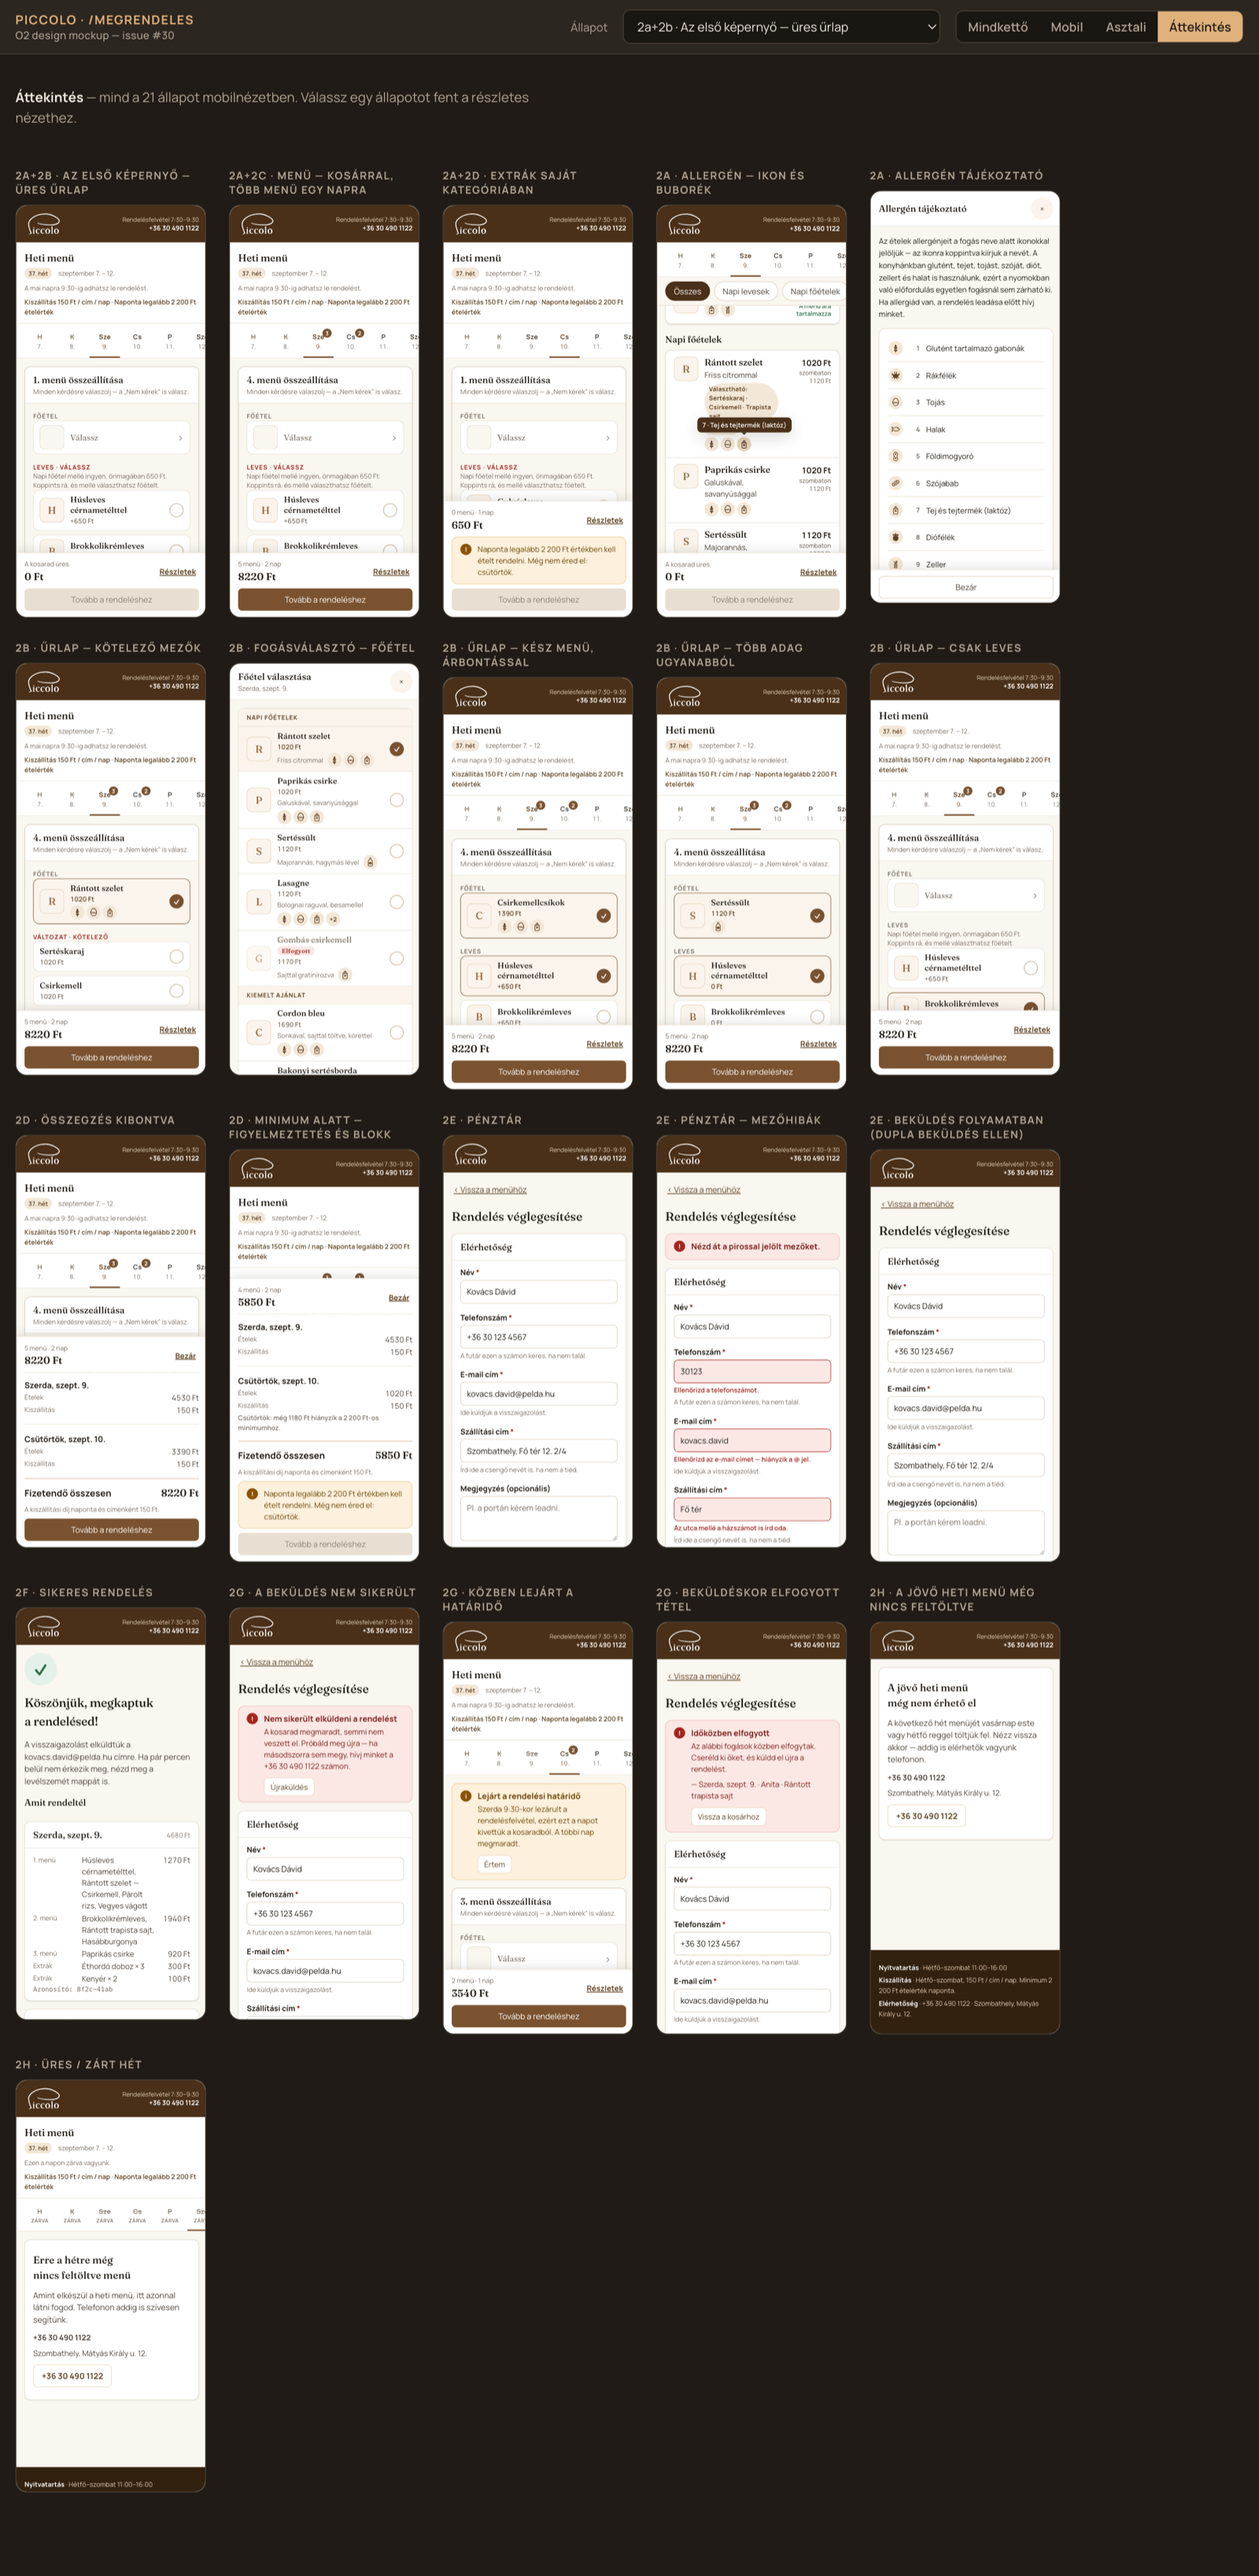
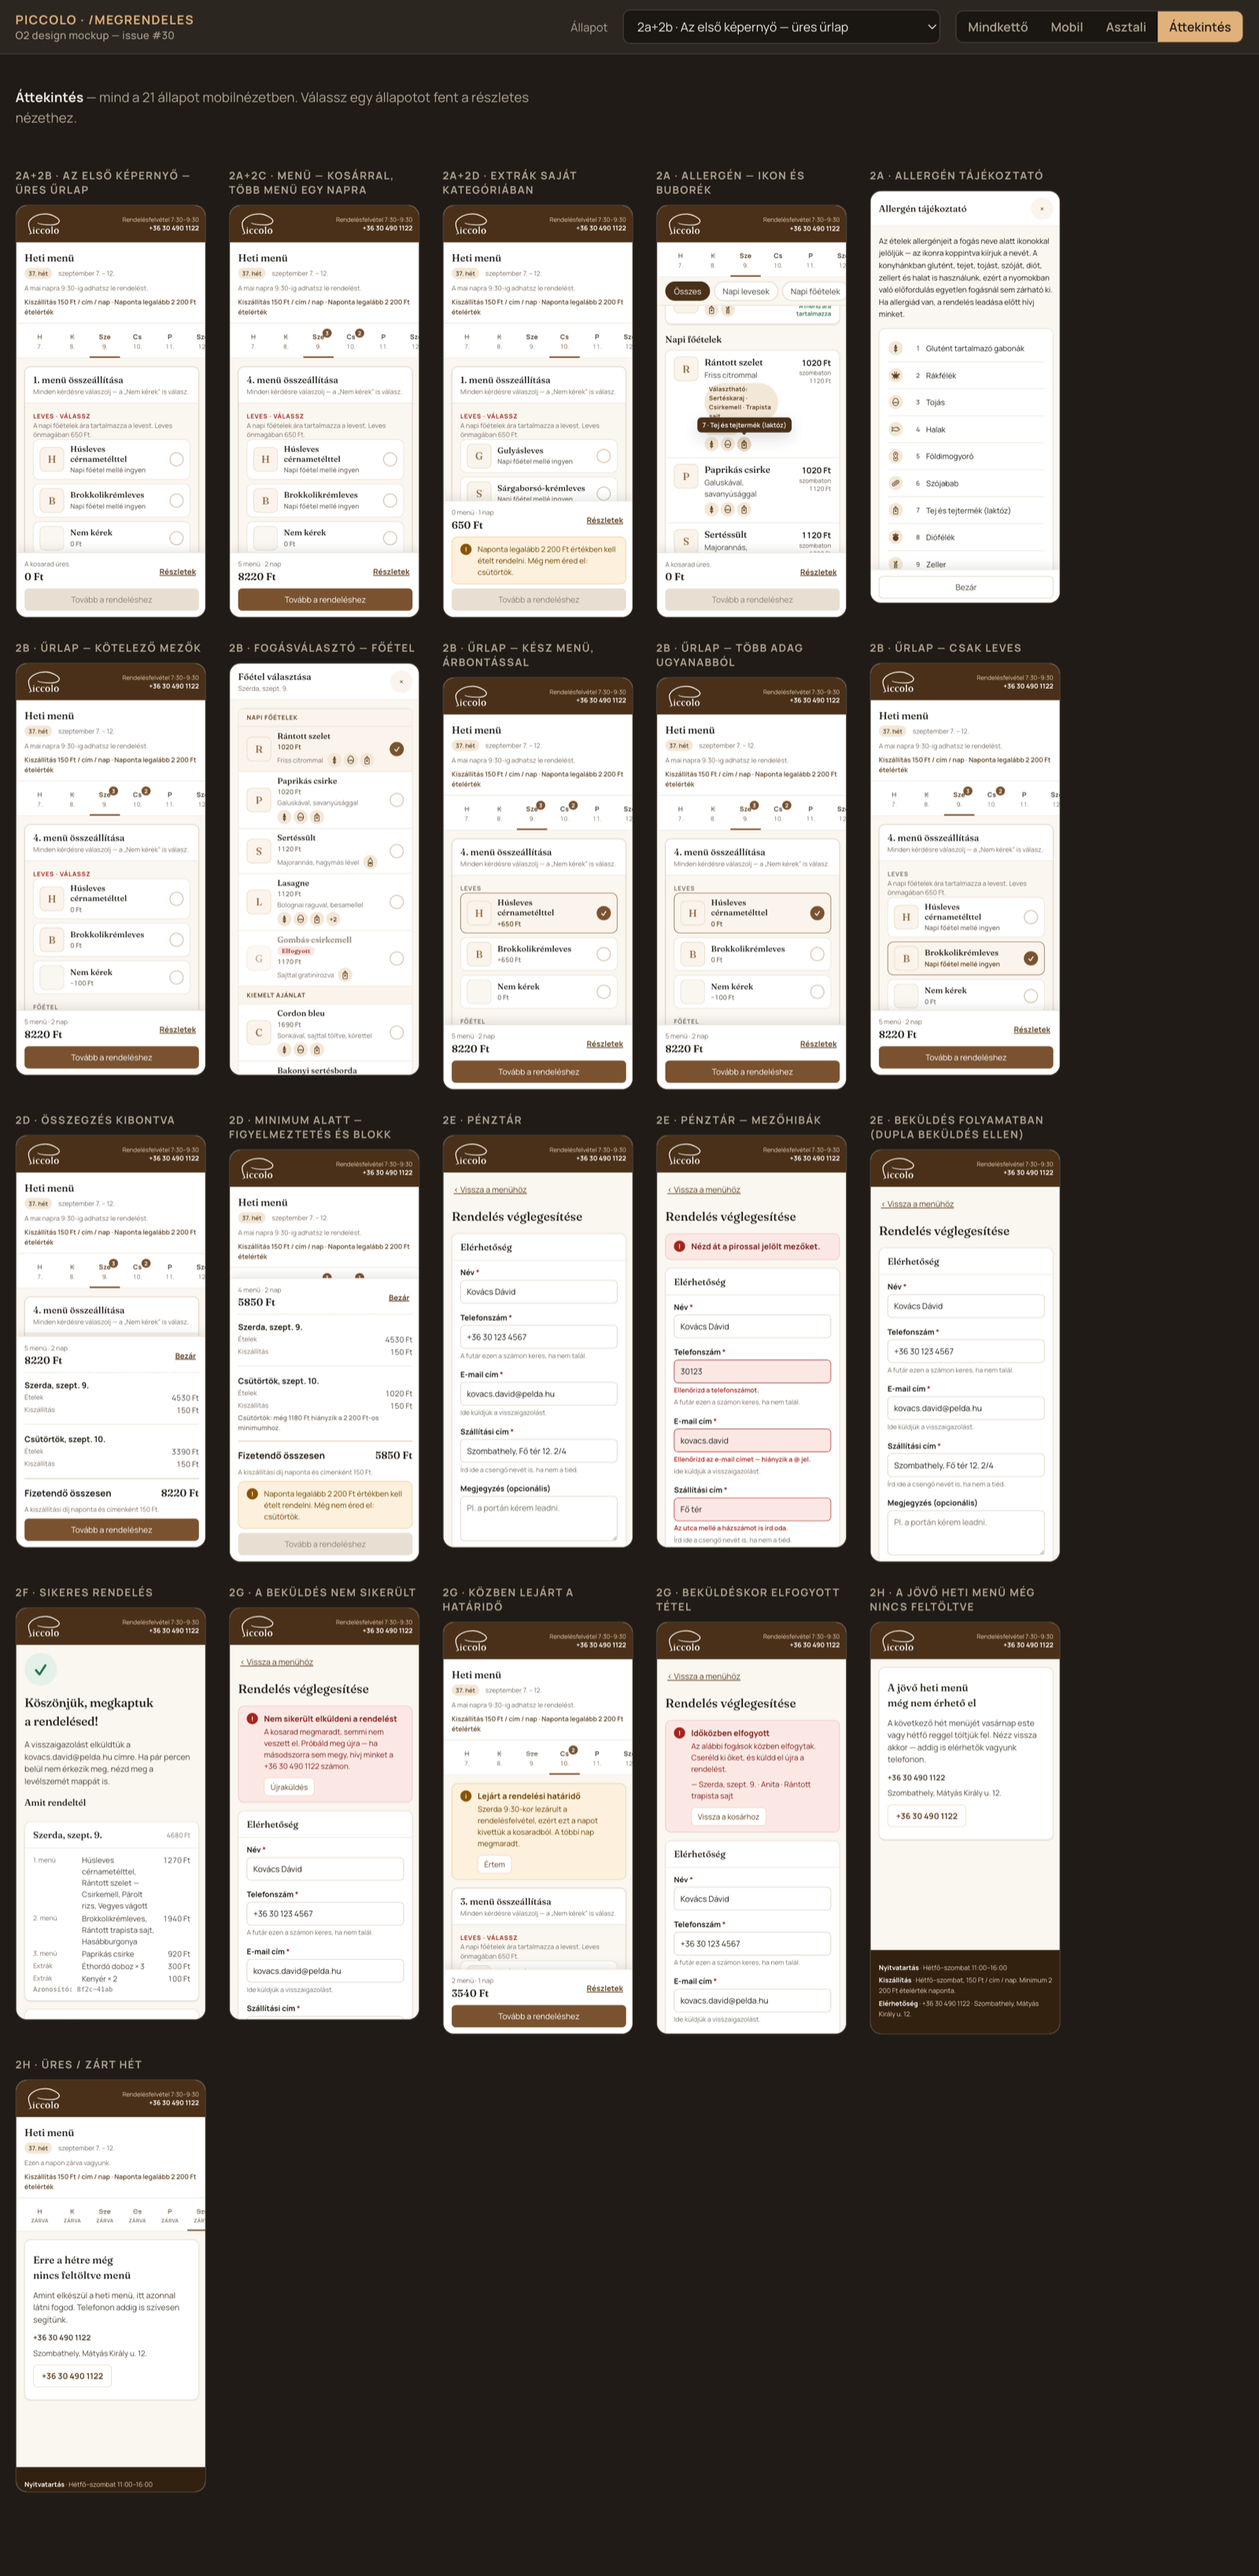
O2: the soup comes first and quotes a rule until a main is chosen
Course order it is — soup, main, its variation and side, then pickle and
dessert. That is how a Hungarian menu reads and how the old form was laid out.

It has one hazard, and the soup block is built around it: the soup's price
depends on the main. Beside a daily main it is included; beside an all-week dish
or on its own it is 650 Ft. Rendered naively, moving the soup up prints "+650 Ft"
on every soup at the exact moment the guest has no main and so no way to improve
it — the worst case presented as the price, which is a good way to talk someone
out of a soup that would have been free.

So while no main is chosen the amount states the rule instead, "Napi főétel
mellé ingyen", and the block hint carries the other half. Pick a main and the
rows go back to real figures: 0 Ft, −100 Ft on "Nem kérek", +650 Ft beside an
all-week dish.

diff --git a/docs/design/megrendeles/mockup.html b/docs/design/megrendeles/mockup.html
@@ -2078,6 +2078,8 @@
           choose: 'Válassz',
           variationLabel: 'Változat',
           requiredSuffix: 'kötelező',
+          soupFreeWithMain: 'Napi főétel mellé ingyen',
+          soupHint: 'A napi főételek ára tartalmazza a levest. Leves önmagában 650 Ft.',
           answerSuffix: 'válassz',
           unanswered: 'Válaszolj a jelölt kérdésekre — a „Nem kérek” is válasz.',
           formTitle: (n) => n + '. menü összeállítása',
@@ -3332,8 +3334,15 @@
           );
         };
 
-        /** What the receipt would say if this soup (or none) were chosen. */
+        /**
+         * What the receipt would say if this soup (or none) were chosen. Before a
+         * main is picked the honest answer is a condition, not a number: the same
+         * soup is free beside a daily main and 650 Ft on its own. Printing the worst
+         * case at the one moment the guest cannot yet improve it is what made the
+         * old system read as expensive, so the row states the rule instead.
+         */
         const soupAmount = (id) => {
+          if (id && !mainItem) return S.composer.soupFreeWithMain;
           const adj = priceMenu({ ...c, soup: id }, date).lines.find((l) => l.adj);
           return adj ? signed(adj.amount) : money(0);
         };
@@ -3341,7 +3350,7 @@
         const soupBlock = choiceRows(S.composer.slots.soup, {
           slot: 'soup',
           answerable: true,
-          hint: mainItem ? null : S.sections.soupsHint,
+          hint: mainItem ? null : S.composer.soupHint,
           options: [
             ...WEEK.byDate[date].soups.map((s) => ({
               id: s.id,
@@ -3438,15 +3447,15 @@
          * only one place where a menu is built.
          */
         const body =
+          soupBlock +
           mainBlock() +
           variationBlock +
-          soupBlock +
           sideBlock +
-          choiceRows(S.composer.slots.dessert, {
-            slot: 'dessert',
+          choiceRows(S.composer.slots.pickle, {
+            slot: 'pickle',
             answerable: true,
             options: [
-              ...WEEK.desserts.map((i) => ({
+              ...WEEK.pickles.map((i) => ({
                 id: i.id,
                 name: i.name,
                 amount: money(priceOf(i, date)),
@@ -3454,11 +3463,11 @@
               { id: null, name: S.composer.none, amount: money(0) },
             ],
           }) +
-          choiceRows(S.composer.slots.pickle, {
-            slot: 'pickle',
+          choiceRows(S.composer.slots.dessert, {
+            slot: 'dessert',
             answerable: true,
             options: [
-              ...WEEK.pickles.map((i) => ({
+              ...WEEK.desserts.map((i) => ({
                 id: i.id,
                 name: i.name,
                 amount: money(priceOf(i, date)),

diff --git a/docs/design/megrendeles/README.md b/docs/design/megrendeles/README.md
@@ -121,7 +121,7 @@ What O6/O7 need to build, in the order they appear:
 | `DayCart` | composed menus, numbered, with per-line breakdown, adjustments, edit/remove, food subtotal; then the day's extras as priced lines with a link back to the extras section |
 | `ExtrasSection` | the extras as a category of their own at the end of the offer list, with its own chip: a vertical list of `ExtrasRow`, heading and the per-day hint |
 | `ExtrasRow` | name, unit price, stepper, line total — one row, two chromes: with the stepper in the offer list, as a priced line (`name × qty`) in the day's order |
-| `ComposerForm` | **the primary screen, not a modal.** An empty form for the next menu: the main's row, then variation, soup, side, dessert, pickle and the Extra steppers, all open. Once the main is chosen its row shows the dish — tile, allergens, price. The head names which menu you are building; the foot carries the live price, the portions stepper, "Ürítés" and "Hozzáadás" |
+| `ComposerForm` | **the primary screen, not a modal.** An empty form for the next menu, in course order: soup, main, its variation and side, then pickle, dessert and the Extra steppers, all open. Once the main is chosen its row shows the dish — tile, allergens, price. The head names which menu you are building; the foot carries the live price, the portions stepper, "Ürítés" and "Hozzáadás" |
 | `CheckoutSummary` | the cart value, the per-day recap and the totals as one column beside the form |
 | `ChoiceRows` | soup, variation and side: a stack of full-width rows — tile, name, the price effect under the name, and a mark on the right that fills with the accent and a ✓ when chosen |
 | `SlotPicker` | the one remaining sheet: the main course, 11 dishes across three labelled groups, "Nem kérek" last, sold-out disabled |
@@ -199,13 +199,28 @@ What we deliberately did **not** take:
 
 | Slot | Options | Treatment |
 |---|---|---|
-| Leves | 2 + "Nem kérek" | **choice rows** — and the row carries the adjustment, so "Nem kérek −100 Ft" and "Húsleves +650 Ft" are visible *before* the tap. This is the price the old system hid until afterwards, and undercharged by 200 Ft when it finally showed it. |
+| Leves | 2 + "Nem kérek" | **choice rows, first in the form** — and the row carries the adjustment, so "Nem kérek −100 Ft" and "Húsleves +650 Ft" are visible *before* the tap. This is the price the old system hid until afterwards, and undercharged by 200 Ft when it finally showed it. |
 | Főétel | 11, across three categories | **its own row + picker** — too many to inline. The row has two faces: a prompt before it is answered, and afterwards the dish itself, drawn exactly like any other chosen course — same border, tint and filled check. Only the prompt carries a chevron, since that is where it helps: this is the one row that opens a picker. |
 | Változat | 2–3 | **choice rows**, without tiles — a variation is a property of the main course above it, not a dish of its own, and `Csirkemell` / `Csirkecomb` would both draw a `C`. |
 | Köret | 7 | **choice rows** — it is the only required slot and the usual reason the add button is disabled, so it should be satisfiable without leaving the sheet. |
 | Savanyúság, Desszert | 3 + "Nem kérek" each | **choice rows**, open on the page like the rest. Neither carries a default, so each has to be answered — see the forced-choice note below. |
 
 A required block is labelled `KÖRET · KÖTELEZŐ` in red: the requirement is a word, not only a colour.
+
+### The soup comes first, and before a main it quotes a rule, not a price
+
+The form follows course order — soup, main, its variation and side, pickle, dessert — which is how a
+Hungarian menu reads and how the old form was laid out. That ordering has one hazard, and the block
+is built around it: **the soup's price depends on the main.** Beside a daily main it is included;
+beside an all-week dish, or on its own, it is 650 Ft.
+
+Put the soup first and the naive rendering shows `+650 Ft` on every soup at the exact moment the
+guest has no main yet and so no way to improve it. That is the worst case presented as the price,
+and it is a good way to talk someone out of a soup that would have been free. So while no main is
+chosen the amount states the rule instead — **`Napi főétel mellé ingyen`** — with the block hint
+carrying the other half (`Leves önmagában 650 Ft`). The moment a main is picked the rows switch back
+to real figures: `0 Ft` beside a daily main, `−100 Ft` on "Nem kérek", `+650 Ft` beside an all-week
+dish.
 
 **All seven side options stack; the block does not scroll on its own.** The sheet body already
 scrolls, and a scroller nested inside it is the gesture people lose on a phone — you swipe to reach

diff --git a/docs/design/megrendeles/strings.md b/docs/design/megrendeles/strings.md
@@ -22,7 +22,7 @@ Merge it with what is already in `strings.ts`: keep `siteName`, replace the `ord
    | extras names (`Éthordó doboz`, `Kenyér`, `Ketchup`, `Tartármártás`) | `config.extras[].name` |
    | `order.phone`, `order.address`, `order.intake`, `footer.opening`, `footer.delivery` | restaurant identity — **not yet in `RestaurantConfig`**, see README.md §Follow-ups |
 3. **Numbers written into sentences.** `order.terms`, `summary.minimumWarning`, `summary.minimumBlocked`,
-   `sections.soupsHint` and `footer.delivery` currently spell out 2 200 Ft, 150 Ft and 650 Ft. They
+   `sections.soupsHint`, `composer.soupHint` and `footer.delivery` currently spell out 2 200 Ft, 150 Ft and 650 Ft. They
    must be interpolated from `config.pricing` instead of typed, or the copy lies the day a price
    changes. Left as prose here so the sentences read naturally in review; O6 wires them up.
 4. **Formatting is not copy.** `common.currency` is a formatter, not a string. Put it in a
@@ -120,6 +120,8 @@ export const strings = {
     choose: 'Válassz',
     variationLabel: 'Változat',
     requiredSuffix: 'kötelező',
+    soupFreeWithMain: 'Napi főétel mellé ingyen',
+    soupHint: 'A napi főételek ára tartalmazza a levest. Leves önmagában 650 Ft.',
     answerSuffix: 'válassz',
     unanswered: 'Válaszolj a jelölt kérdésekre — a „Nem kérek” is válasz.',
     formTitle: (n: number) => n + '. menü összeállítása',
